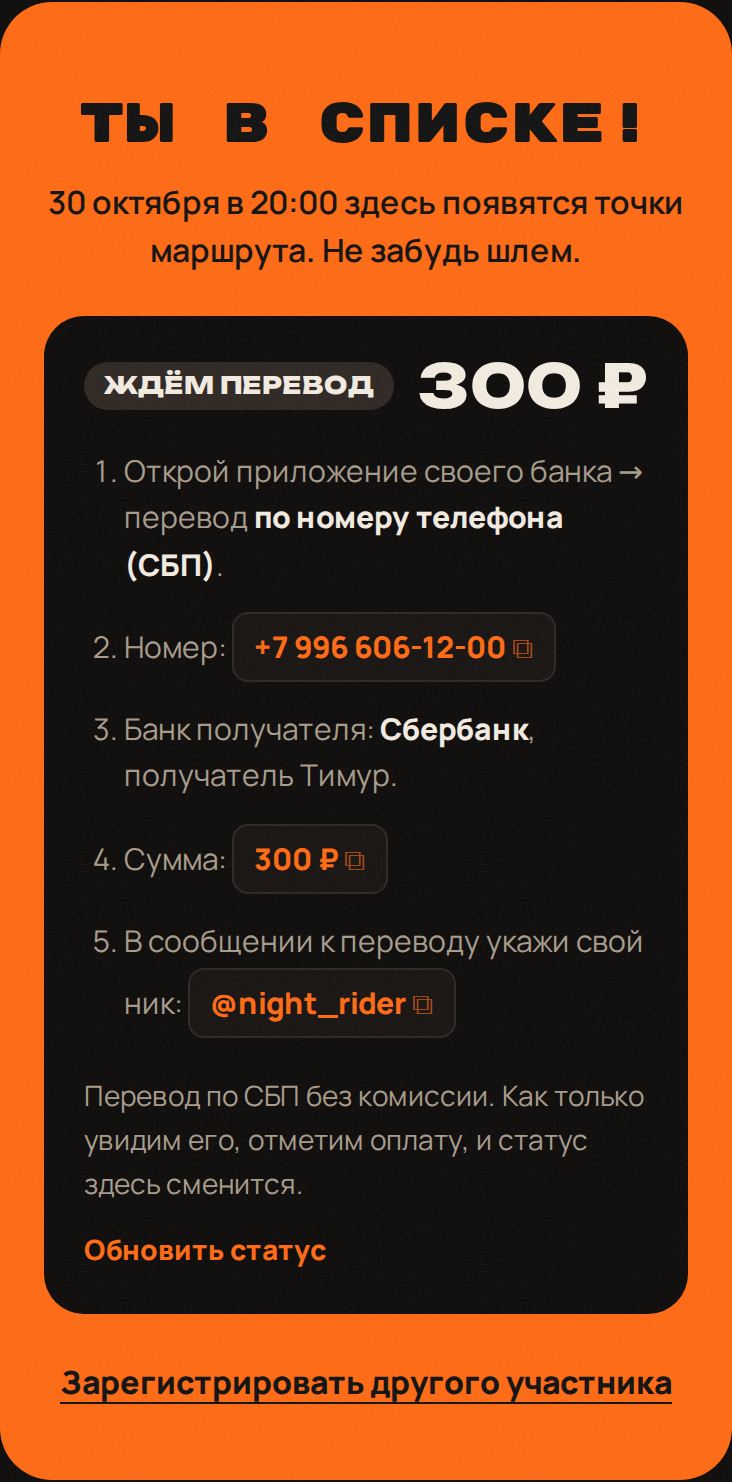
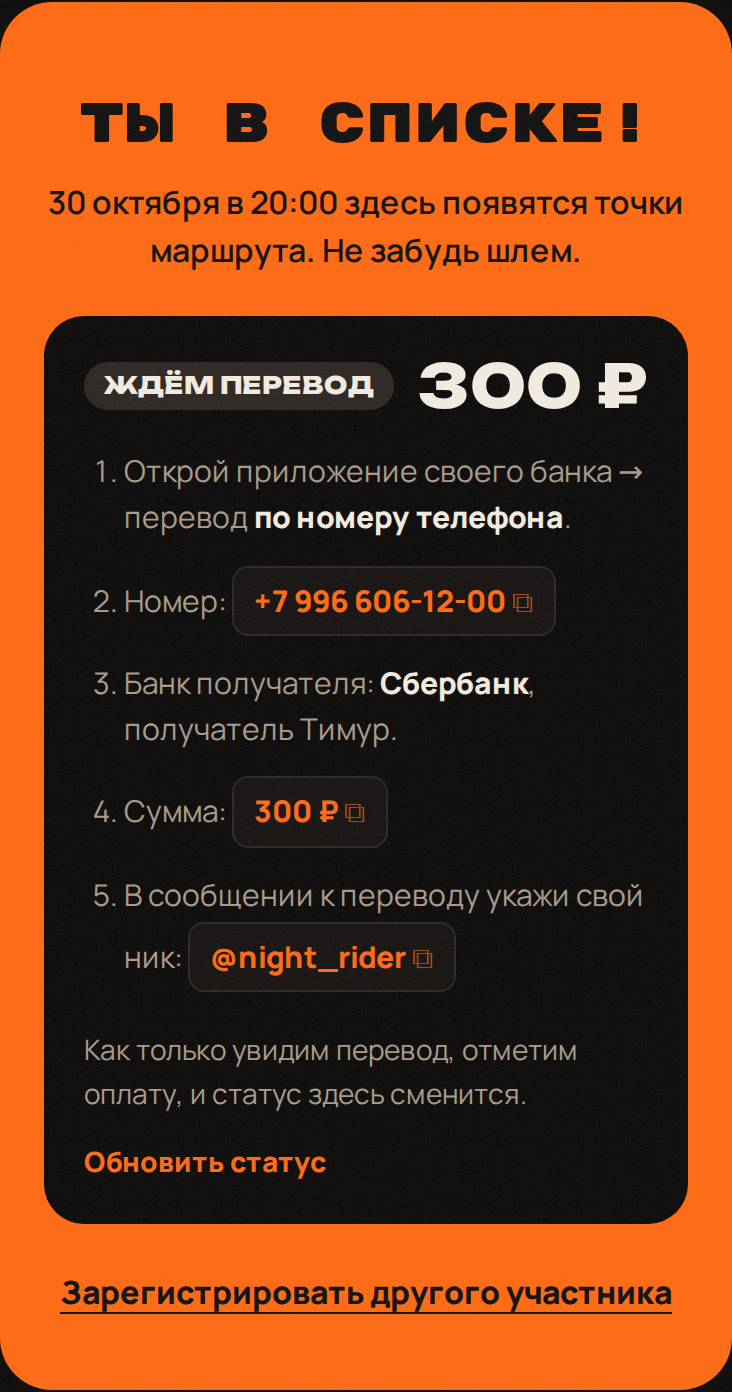
Поле «Оплата», без упоминания СБП
Claude-Session: https://claude.ai/code/session_0122weFEyBkPzVmy7e3pz2TB

diff --git a/index.html b/index.html
@@ -9,7 +9,7 @@
   <link rel="preconnect" href="https://fonts.googleapis.com">
   <link rel="preconnect" href="https://fonts.gstatic.com" crossorigin>
   <link href="https://fonts.googleapis.com/css2?family=Rubik+Mono+One&family=Unbounded:wght@500;800&family=Manrope:wght@400;600;800&display=swap" rel="stylesheet">
-  <link rel="stylesheet" href="style.css?v=202610070954">
+  <link rel="stylesheet" href="style.css?v=202610070959">
 </head>
 <body>
   <div class="grain" aria-hidden="true"></div>
@@ -120,8 +120,8 @@
         </fieldset>
 
         <div class="field" data-field="payment">
-          <label class="field__label" for="payment">Источник оплаты <span class="req">*</span></label>
-          <p class="field__hint field__hint--pay">Перевод по СБП: <button type="button" class="copy" data-copy="+79966061200">+7 996 606-12-00</button> Сбербанк, Тимур.<br>Ниже укажи имя и банк, с которых переводишь, чтобы мы нашли платёж.</p>
+          <label class="field__label" for="payment">Оплата <span class="req">*</span></label>
+          <p class="field__hint field__hint--pay">Перевод: <button type="button" class="copy" data-copy="+79966061200">+7 996 606-12-00</button> Сбербанк, Тимур.<br>Ниже укажи имя и банк, с которых переводишь, чтобы мы нашли платёж.</p>
           <div class="field__input">
             <input id="payment" name="payment" type="text" autocomplete="off" placeholder="например: Иван И., Тинькофф" required>
           </div>
@@ -145,13 +145,13 @@
             <span class="paybox__sum" id="pay-sum">300 ₽</span>
           </div>
           <ol class="paybox__steps">
-            <li>Открой приложение своего банка → перевод <b>по номеру телефона (СБП)</b>.</li>
+            <li>Открой приложение своего банка → перевод <b>по номеру телефона</b>.</li>
             <li>Номер: <button type="button" class="copy" data-copy="+79966061200">+7 996 606-12-00</button></li>
             <li>Банк получателя: <b>Сбербанк</b>, получатель Тимур.</li>
             <li>Сумма: <button type="button" class="copy" id="pay-sum-copy" data-copy="300">300 ₽</button></li>
             <li>В сообщении к переводу укажи свой ник: <button type="button" class="copy" id="pay-nick" data-copy="@nick">@nick</button></li>
           </ol>
-          <p class="paybox__note" id="pay-note">Перевод по СБП без комиссии. Как только увидим его, отметим оплату, и статус здесь сменится.</p>
+          <p class="paybox__note" id="pay-note">Как только увидим перевод, отметим оплату, и статус здесь сменится.</p>
           <button type="button" class="paybox__refresh" id="pay-refresh">Обновить статус</button>
         </div>
 
@@ -238,8 +238,8 @@
     <p>FGK CloseSeason 26 · 18+</p>
   </footer>
 
-  <script src="config.js?v=202610070954"></script>
-  <script src="data.js?v=202610070954"></script>
-  <script src="app.js?v=202610070954"></script>
+  <script src="config.js?v=202610070959"></script>
+  <script src="data.js?v=202610070959"></script>
+  <script src="app.js?v=202610070959"></script>
 </body>
 </html>

diff --git a/app.js b/app.js
@@ -573,7 +573,7 @@
       ? "Для девушек участие бесплатное, платить ничего не нужно."
       : status.paid
         ? "Оплата подтверждена. Увидимся " + startPhrase() + "!"
-        : "Перевод по СБП без комиссии. Как только увидим его, отметим оплату, и статус здесь сменится.";
+        : "Как только увидим перевод, отметим оплату, и статус здесь сменится.";
   }
 
   async function loadMyStatus() {
